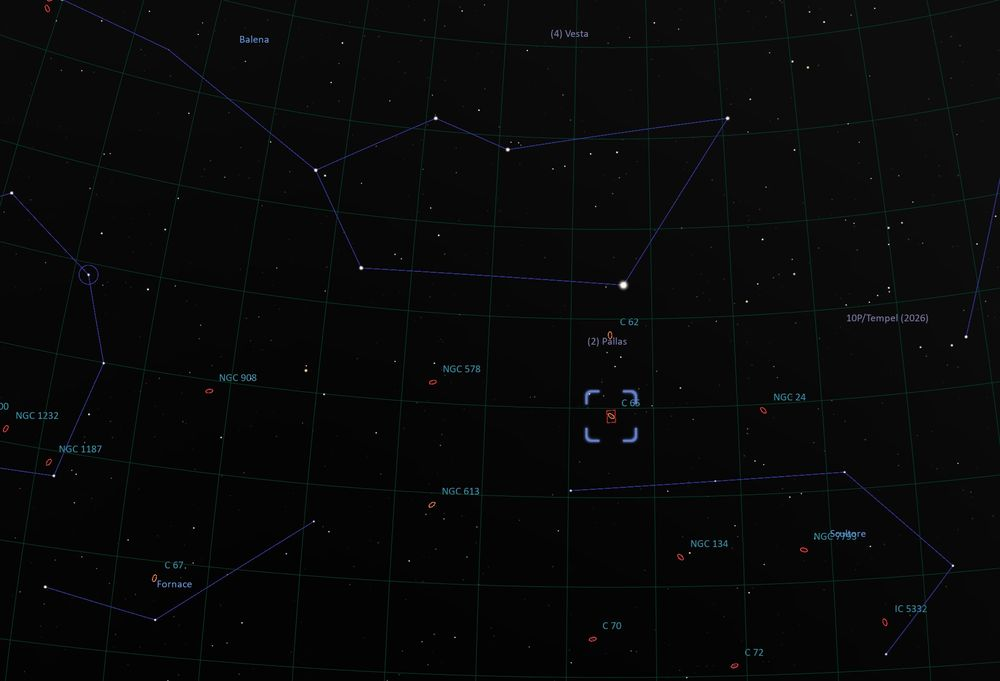
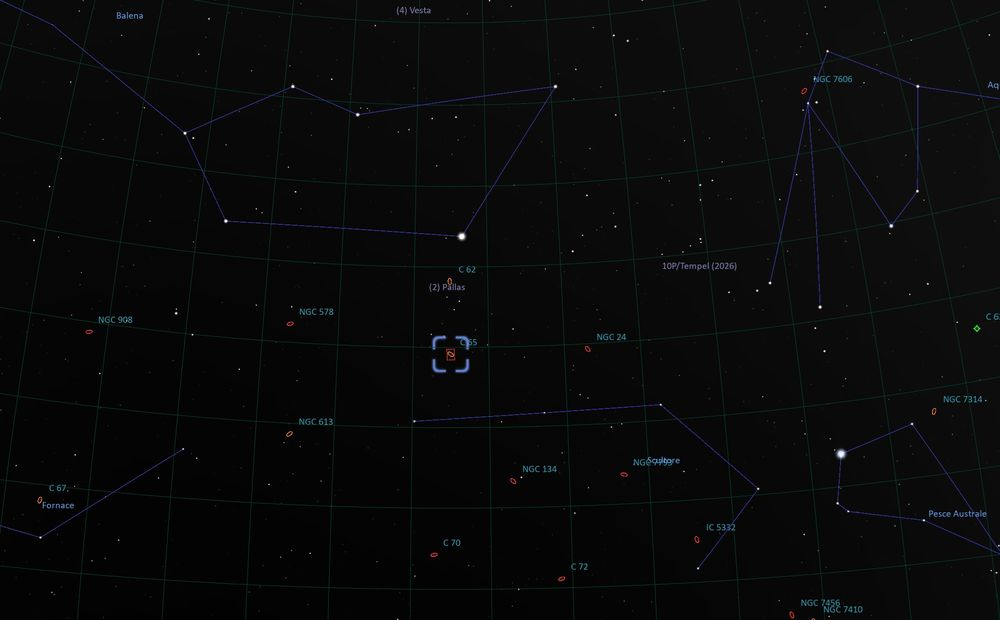
aggiornata maps

diff --git a/NGC_253.html b/NGC_253.html
@@ -124,27 +124,11 @@
     </p>
 
     <!-- For each image, set the longer side to 1000 pixel and specify the corresponding value of the shorter side. -->
-    <img src="images/NGC_253_map.jpg" width="1000" height="681"
+    <img src="images/NGC_253_map.jpg" width="1000" height="620"
          alt="Sky map showing the location of the NGC 253 region"
          class="object-map">
 
 </section>
-
-
-<!-- =========================================================
-     MAPPA ANNOTATA
-========================================================= -->
-
-<section>
-
-
-
-</section>
-
-
-<!-- =========================================================
-     DATI PRINCIPALI
-========================================================= -->
 
 <section>
 
@@ -248,17 +232,6 @@
         <span class="lang-it">Una galassia starburst è un tipo di galassia in cui il processo di formazione stellare avviene a un ritmo eccezionalmente rapido e violento, consumando le riserve di gas a una velocità insostenibile sul lungo periodo. Mentre una galassia stabile come la nostra Via Lattea produce in media da 1 a 2 masse solari di nuove stelle all'anno, una galassia starburst può generarne decine, centinaia o addirittura migliaia nello stesso arco di tempo.</span>
         <span class="lang-en">A starburst galaxy is a type of galaxy in which the process of star formation occurs at an exceptionally rapid and intense rate, consuming gas reserves at a speed that is unsustainable in the long term. While a stable galaxy like our own Milky Way produces, on average, 1 to 2 solar masses' worth of new stars per year, a starburst galaxy can generate tens, hundreds, or even thousands of them within the same timeframe.</span>
     </p>
-
-</section>
-
-
-<!-- =========================================================
-     DESCRIZIONE ALTRI OGGETTI PRESENTI NELL'IMMAGINE
-========================================================= -->
-
-<section>
-
-
 
 </section>
 
